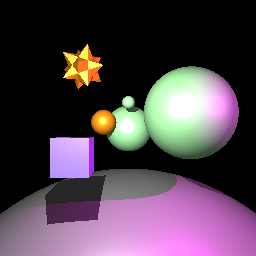
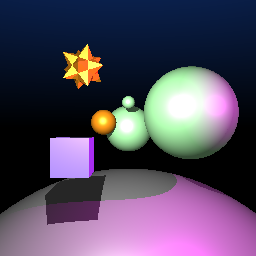
still working on trans

diff --git a/cs488/A4/A4.cpp b/cs488/A4/A4.cpp
@@ -23,6 +23,13 @@ SceneNode * findNodeById(SceneNode& rootNode, unsigned int id){
 	return NULL;
 }
 
+void transWholeTree(SceneNode *root) {
+	for(SceneNode *node: root->children) {
+		node->trans = root->trans*node->trans;
+		node->invtrans = glm::inverse(node->trans);
+		transWholeTree(node);
+	}
+}
 
 
 Ray generateReflection(Ray startRay, glm::vec3 newOri, intersection int_neat){
@@ -49,24 +56,27 @@ intersection getNearestIntersection(SceneNode *&resNode, SceneNode *rootNode, Ra
 			if(node->m_nodeType == NodeType::GeometryNode){ // only check intersection with geometrynode
 			
 			geometryNode = static_cast<const GeometryNode*>(node);
-			//cout << " after  convert  "<< geometryNode->m_name<<endl; 
-			//cout << " get next interection called "<< limit<<endl;
-			intersection temp_int_res = geometryNode->m_primitive->checkIntersection(ray);
+			
+			Ray transferd_ray;
+			transferd_ray.start = node->invtrans*ray.start;
+			transferd_ray.direction = glm::normalize(node->invtrans*(ray.start + ray.direction) - node->invtrans*ray.start);
+
+			intersection temp_int_res = geometryNode->m_primitive->checkIntersection(transferd_ray);
 			if (temp_int_res.t > exp_test_glo){
 				if(temp_int_res.t < limit){
-					//std::cout << "found!!"<<std::endl;
+
 					resNode = node;
-					//std::cout << "found!! 2"<<std::endl;
 					limit = temp_int_res.t;
 					int_res.t = temp_int_res.t;
 					int_res.norm_v = temp_int_res.norm_v;
-					//std::cout << limit<<std::endl;
+
+					int_res.t = glm::distance(glm::vec3(resNode->trans*(transferd_ray.start + int_res.t * transferd_ray.direction)), glm::vec3(transferd_ray.start));
+					int_res.norm_v = glm::normalize(glm::transpose(glm::mat3(resNode->invtrans))*int_res.norm_v);
+					limit = int_res.t;
 					} 
 				}
-			
 			}
-		}
-		
+		}	
 	}
 	return int_res;
 }
@@ -78,15 +88,12 @@ glm::vec3 rayTrace(Ray &ray, int maxHit, SceneNode *rootNode, const glm::vec3 & 
 		SceneNode *resNode = NULL;
 		double curLim = exp_test;
 		intersection int_near = getNearestIntersection(resNode, rootNode, ray, curLim);
-		if(resNode != NULL){
-		//cout<< " with node " << resNode->m_name << " and id : "<< resNode->m_nodeId<<endl;
-		//cout << " intersection : "<< int_near.t << " "<<endl;
-		}
+
+		// performation invese transformation
+		
 		
 		if(resNode !=NULL && int_near.t != -1){
-			//cout<< " with node " << resNode->m_name << " and id : "<< resNode->m_nodeId<<endl;
-			//cout << " intersection : "<< int_near.t << " "<<endl;
-			// set up base color
+
 			glm::vec3 col = glm::vec3(0.0f, 0.0f, 0.0f); 
 
 			// add ambient
@@ -99,9 +106,17 @@ glm::vec3 rayTrace(Ray &ray, int maxHit, SceneNode *rootNode, const glm::vec3 & 
 
 			for(Light * light : lights){
 				Ray curRay;
-				//curRay.start = glm::vec4(newOri, 1.0f);
+
+				// add transformation functions
 				curRay.start = glm::vec4(newOri, 1.0f);
 				curRay.direction = glm::normalize(glm::vec4(light->position - newOri, 0.0f));
+
+				if(resNode->m_nodeType == NodeType::GeometryNode){
+					curRay.start = resNode->invtrans*curRay.start;
+					curRay.direction = glm::normalize(resNode->invtrans*(curRay.start  + curRay.direction) - resNode->invtrans*curRay.start);
+
+				}
+				
 				//Ray curRay = Ray(glm::vec4(newOri, 1.0f), glm::vec4(light->position, 1.0f));
 				SceneNode *tempResNode = NULL;
 				double tempCurLim = exp_test;
@@ -140,7 +155,7 @@ glm::vec3 rayTrace(Ray &ray, int maxHit, SceneNode *rootNode, const glm::vec3 & 
 
 					// step 4 update color
 
-					col += light->colour*(Diffuse + Specular);
+					col += light->colour*(Diffuse + Specular)/devider;
 				}
 
 			}
@@ -150,7 +165,9 @@ glm::vec3 rayTrace(Ray &ray, int maxHit, SceneNode *rootNode, const glm::vec3 & 
 			}
 			return col; 
 		}else{
-			return glm::vec3(0.0f, 0.0f, 0.0f);
+			double y = ray.direction.y;
+			glm::vec3 color = glm::vec3(y/10*1.0f, y/10*3*1.0f,y/10*7*1.0f);
+			return color;
 	
 		}
 };
@@ -174,7 +191,7 @@ void A4_Render(
 ) {
 
   // Fill in raytracing code here...  
-
+  transWholeTree(root);
   std::cout << "Calling A4_Render(\n" <<
 		  "\t" << *root <<
           "\t" << "Image(width:" << image.width() << ", height:" << image.height() << ")\n"
@@ -245,14 +262,9 @@ void A4_Render(
 			curRay.start = eye_v4;
 			glm::vec4 dir = glm::normalize( t_matrix * glm::vec4(x, y, 0, 1) - eye_v4);
 			curRay.direction = dir;
-			glm::vec3 col = glm::vec3(0.0f, 0.0f, 0.0f);
-			//cout << " will ray trace " << glm::to_string(curRay.start) << " dir" << glm::to_string(curRay.direction) <<endl;
-			
+			glm::vec3 col = glm::vec3(0.0f, 0.0f, 0.0f);			
 			col += rayTrace(curRay, 6, root, ambient, lights);
-			//if(y == 66 && x == 185){
-				//std::cout << " will ray trace " << glm::to_string(curRay.start) << " dir" << glm::to_string(curRay.direction) << std::endl;
-				//exit(0);
-			//}
+			
 			// Red: 
 			image(x, y, 0) = col.r;
 			// Green: 

diff --git a/cs488/A4/Primitive.cpp b/cs488/A4/Primitive.cpp
@@ -88,7 +88,6 @@ Sphere::~Sphere()
 }
 
 intersection Sphere::checkIntersection(const Ray & ray){
-
     glm::vec3 centerPos =  glm::vec3(0.0f, 0.0f, 0.0f);
     float a = glm::dot(ray.direction, ray.direction);
     float b = 2 * glm::dot(glm::vec3(ray.direction), glm::vec3(ray.start) - centerPos);
